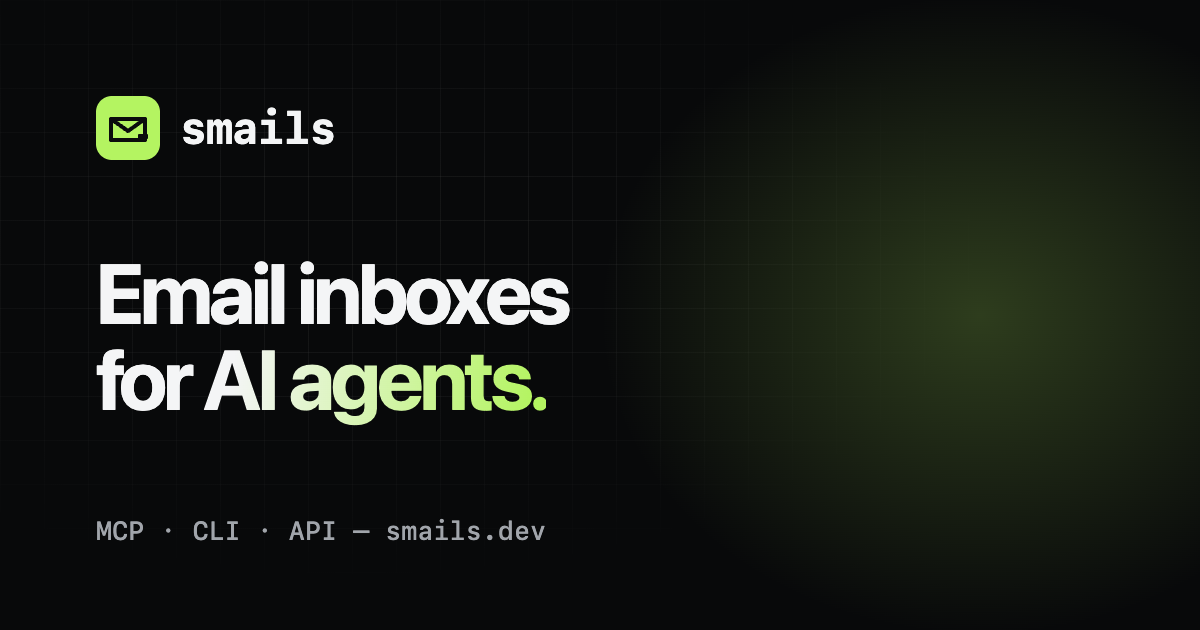
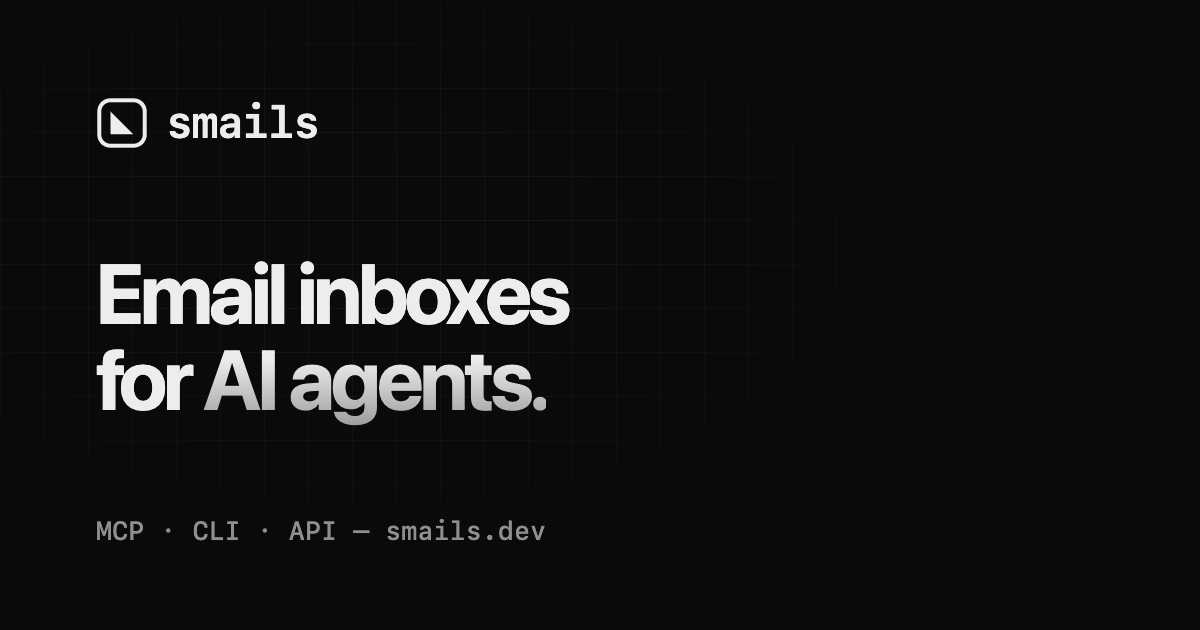
feat(web): monochrome palette and a new geometric mark
The lime accent and the envelope-plus-cursor icon did not land. Switch to
pure black and white (dark by default, inverted under
prefers-color-scheme: light): emphasis comes from contrast, weight and
spacing; red stays only for errors.

- tokens: neutral greys; "accent" is now the strongest contrast colour
- mark: a rounded frame with a filled lower-left triangle (an abstract
  envelope fold), single colour; favicon.svg follows the colour scheme,
  favicon.ico / apple-touch-icon are white on black, social image redone
- no glows on status dots; headline gradient is white to grey; tool
  names in the terminal demo are set in bold instead of colour

diff --git a/web/app/ui/tokens.stylex.ts b/web/app/ui/tokens.stylex.ts
@@ -1,42 +1,39 @@
 import * as stylex from "@stylexjs/stylex";
 
 // 设计变量。组件只引用这里的变量，不写死颜色、间距、圆角。
-// 视觉基调：开发者工具风，深色为主（系统是浅色模式时切到浅色）。
-// 一个荧光绿强调色，只用在关键信息上：验证码、状态点、焦点环、主按钮的光。
+// 视觉基调：纯黑白极简，深色为主（系统是浅色模式时反过来）。没有彩色：
+// 层次靠字号、字重、留白和明暗对比。只有出错提示用红色，那是功能色。
 
 const LIGHT = "@media (prefers-color-scheme: light)";
 
 export const color = stylex.defineVars({
-	bg: { default: "#08090a", [LIGHT]: "#fbfbfa" },
+	bg: { default: "#0a0a0a", [LIGHT]: "#ffffff" },
 	// 卡片、代码块。
-	surface: { default: "#101113", [LIGHT]: "#ffffff" },
+	surface: { default: "#111111", [LIGHT]: "#fafafa" },
 	// 卡片里再抬起来一层（终端标题栏、标签页）。
-	raised: { default: "#16181b", [LIGHT]: "#f3f3f1" },
-	border: { default: "#1f2226", [LIGHT]: "#e6e6e3" },
-	borderStrong: { default: "#2e3238", [LIGHT]: "#cfcfca" },
-	text: { default: "#f4f5f6", [LIGHT]: "#0b0c0d" },
-	muted: { default: "#a1a5ab", [LIGHT]: "#55585d" },
+	raised: { default: "#1a1a1a", [LIGHT]: "#f2f2f2" },
+	border: { default: "#262626", [LIGHT]: "#eaeaea" },
+	borderStrong: { default: "#3a3a3a", [LIGHT]: "#d4d4d4" },
+	text: { default: "#ededed", [LIGHT]: "#0a0a0a" },
+	muted: { default: "#a1a1a1", [LIGHT]: "#525252" },
 	// 最弱的文字；在 bg 和 surface 上都有 4.5:1。
-	subtle: { default: "#7e838a", [LIGHT]: "#6a6d72" },
-	// 强调色：填充用 accent，强调色的文字用 accentText（浅色模式下要更深才有对比度）。
-	accent: { default: "#b4f461", [LIGHT]: "#65a30d" },
-	accentText: { default: "#c5f78a", [LIGHT]: "#3f6212" },
-	onAccent: "#0b0c0d",
+	subtle: { default: "#8f8f8f", [LIGHT]: "#6b6b6b" },
+	// “强调”就是最强的明暗对比：深色模式下是白，浅色模式下是黑。
+	accent: { default: "#ededed", [LIGHT]: "#0a0a0a" },
+	accentText: { default: "#ffffff", [LIGHT]: "#000000" },
+	onAccent: { default: "#0a0a0a", [LIGHT]: "#ffffff" },
 	accentSoft: {
-		default: "rgb(180 244 97 / 0.12)",
-		[LIGHT]: "rgb(101 163 13 / 0.12)",
+		default: "rgb(255 255 255 / 0.08)",
+		[LIGHT]: "rgb(0 0 0 / 0.05)",
 	},
-	// 背景网格的线和 hero 后面的光。
-	grid: { default: "rgb(255 255 255 / 0.045)", [LIGHT]: "rgb(0 0 0 / 0.05)" },
-	glow: {
-		default: "rgb(180 244 97 / 0.16)",
-		[LIGHT]: "rgb(101 163 13 / 0.14)",
-	},
+	// 背景网格的线和 hero 后面的微光（都是中性色）。
+	grid: { default: "rgb(255 255 255 / 0.04)", [LIGHT]: "rgb(0 0 0 / 0.045)" },
+	glow: { default: "rgb(255 255 255 / 0.07)", [LIGHT]: "rgb(0 0 0 / 0.04)" },
 	danger: { default: "#f87171", [LIGHT]: "#b91c1c" },
-	success: { default: "#b4f461", [LIGHT]: "#3f6212" },
-	// 终端里的颜色。
-	termPrompt: { default: "#7dd3fc", [LIGHT]: "#0369a1" },
-	termTool: { default: "#c4b5fd", [LIGHT]: "#6d28d9" },
+	success: { default: "#ededed", [LIGHT]: "#0a0a0a" },
+	// 终端里的颜色：提示符用弱色，工具名用正文色加粗。
+	termPrompt: { default: "#8f8f8f", [LIGHT]: "#6b6b6b" },
+	termTool: { default: "#ededed", [LIGHT]: "#0a0a0a" },
 });
 
 export const space = stylex.defineVars({

diff --git a/web/app/ui/Logo.tsx b/web/app/ui/Logo.tsx
@@ -10,16 +10,19 @@ const styles = stylex.create({
 		color: color.text,
 		fontFamily: font.mono,
 		fontSize: text.lg,
-		fontWeight: 700,
-		letterSpacing: "-0.03em",
+		fontWeight: 600,
+		letterSpacing: "-0.04em",
 		textDecoration: "none",
 	},
 	mark: { flexShrink: 0 },
 });
 
-/** 标志：荧光绿圆角方块，里面是信封的轮廓和一个终端光标。和 public/favicon.svg 是同一个图形。 */
+/**
+ * 标志：圆角方框里一个左下角的实心三角，抽象地表示信封的折角。单色，跟着文字颜色走
+ * （深色模式下是白，浅色模式下是黑）。public/favicon.svg 是同一个图形。
+ */
 export function LogoMark(props: { size?: number }) {
-	const size = () => props.size ?? 24;
+	const size = () => props.size ?? 22;
 	return (
 		<svg
 			width={size()}
@@ -28,22 +31,17 @@ export function LogoMark(props: { size?: number }) {
 			aria-hidden="true"
 			{...stylex.attrs(styles.mark)}
 		>
-			<rect width="32" height="32" rx="8" fill="#b4f461" />
-			<path
-				d="M7.5 11.5h17v10.5h-17z"
+			<rect
+				x="2"
+				y="2"
+				width="28"
+				height="28"
+				rx="7"
 				fill="none"
-				stroke="#0b0c0d"
-				stroke-width="2"
-				stroke-linejoin="round"
+				stroke="currentColor"
+				stroke-width="2.5"
 			/>
-			<path
-				d="M7.5 11.5 16 17.5l8.5-6"
-				fill="none"
-				stroke="#0b0c0d"
-				stroke-width="2"
-				stroke-linejoin="round"
-			/>
-			<rect x="21" y="19" width="5" height="2.5" rx="0.5" fill="#0b0c0d" />
+			<path d="M9 9v14h14z" fill="currentColor" />
 		</svg>
 	);
 }

diff --git a/web/app/components/agent-demo.tsx b/web/app/components/agent-demo.tsx
@@ -94,7 +94,6 @@ const styles = stylex.create({
 		height: "6px",
 		borderRadius: radius.full,
 		backgroundColor: color.accent,
-		boxShadow: `0 0 8px ${color.accent}`,
 	},
 	body: {
 		display: "grid",
@@ -117,7 +116,7 @@ const styles = stylex.create({
 	user: { color: color.text },
 	userMark: { color: color.termPrompt, marginInlineEnd: space.sm },
 	tool: { color: color.muted },
-	toolName: { color: color.termTool },
+	toolName: { color: color.termTool, fontWeight: 600 },
 	result: {
 		paddingInlineStart: space.lg,
 		color: color.text,
@@ -161,7 +160,7 @@ const styles = stylex.create({
 		fontWeight: 700,
 		letterSpacing: "0.08em",
 	},
-	done: { color: color.accentText },
+	done: { color: color.text, fontWeight: 600 },
 });
 
 export function AgentDemo() {

diff --git a/web/app/routes/home.tsx b/web/app/routes/home.tsx
@@ -188,7 +188,6 @@ const styles = stylex.create({
 		height: "6px",
 		borderRadius: radius.full,
 		backgroundColor: color.accent,
-		boxShadow: `0 0 8px ${color.accent}`,
 	},
 	title: {
 		marginBlock: `${space.xl} 0`,
@@ -199,7 +198,7 @@ const styles = stylex.create({
 		textWrap: "balance",
 	},
 	titleAccent: {
-		backgroundImage: `linear-gradient(100deg, ${color.text} 10%, ${color.accent} 95%)`,
+		backgroundImage: `linear-gradient(180deg, ${color.text} 30%, ${color.subtle} 110%)`,
 		backgroundClip: "text",
 		color: "transparent",
 	},

diff --git a/web/app/global.css b/web/app/global.css
@@ -4,12 +4,12 @@
 	-moz-osx-font-smoothing: grayscale;
 	-webkit-text-size-adjust: 100%;
 	/* 页面边缘回弹时露出来的底色，和 tokens.stylex.ts 里的 bg 一致。 */
-	background-color: #08090a;
+	background-color: #0a0a0a;
 }
 
 @media (prefers-color-scheme: light) {
 	:root {
-		background-color: #fbfbfa;
+		background-color: #ffffff;
 	}
 }
 
@@ -24,7 +24,7 @@ body {
 }
 
 ::selection {
-	background-color: rgb(180 244 97 / 0.3);
+	background-color: rgb(127 127 127 / 0.35);
 }
 
 @media (prefers-reduced-motion: reduce) {

diff --git a/web/app/document.tsx b/web/app/document.tsx
@@ -13,12 +13,12 @@ export default function Document(props: ParentProps) {
 				<link rel="apple-touch-icon" href="/apple-touch-icon.png" />
 				<meta
 					name="theme-color"
-					content="#08090a"
+					content="#0a0a0a"
 					media="(prefers-color-scheme: dark)"
 				/>
 				<meta
 					name="theme-color"
-					content="#fbfbfa"
+					content="#ffffff"
 					media="(prefers-color-scheme: light)"
 				/>
 				{/* 没有 index.html，StyleX 插件注入不了开发样式表，这里自己接。 */}
